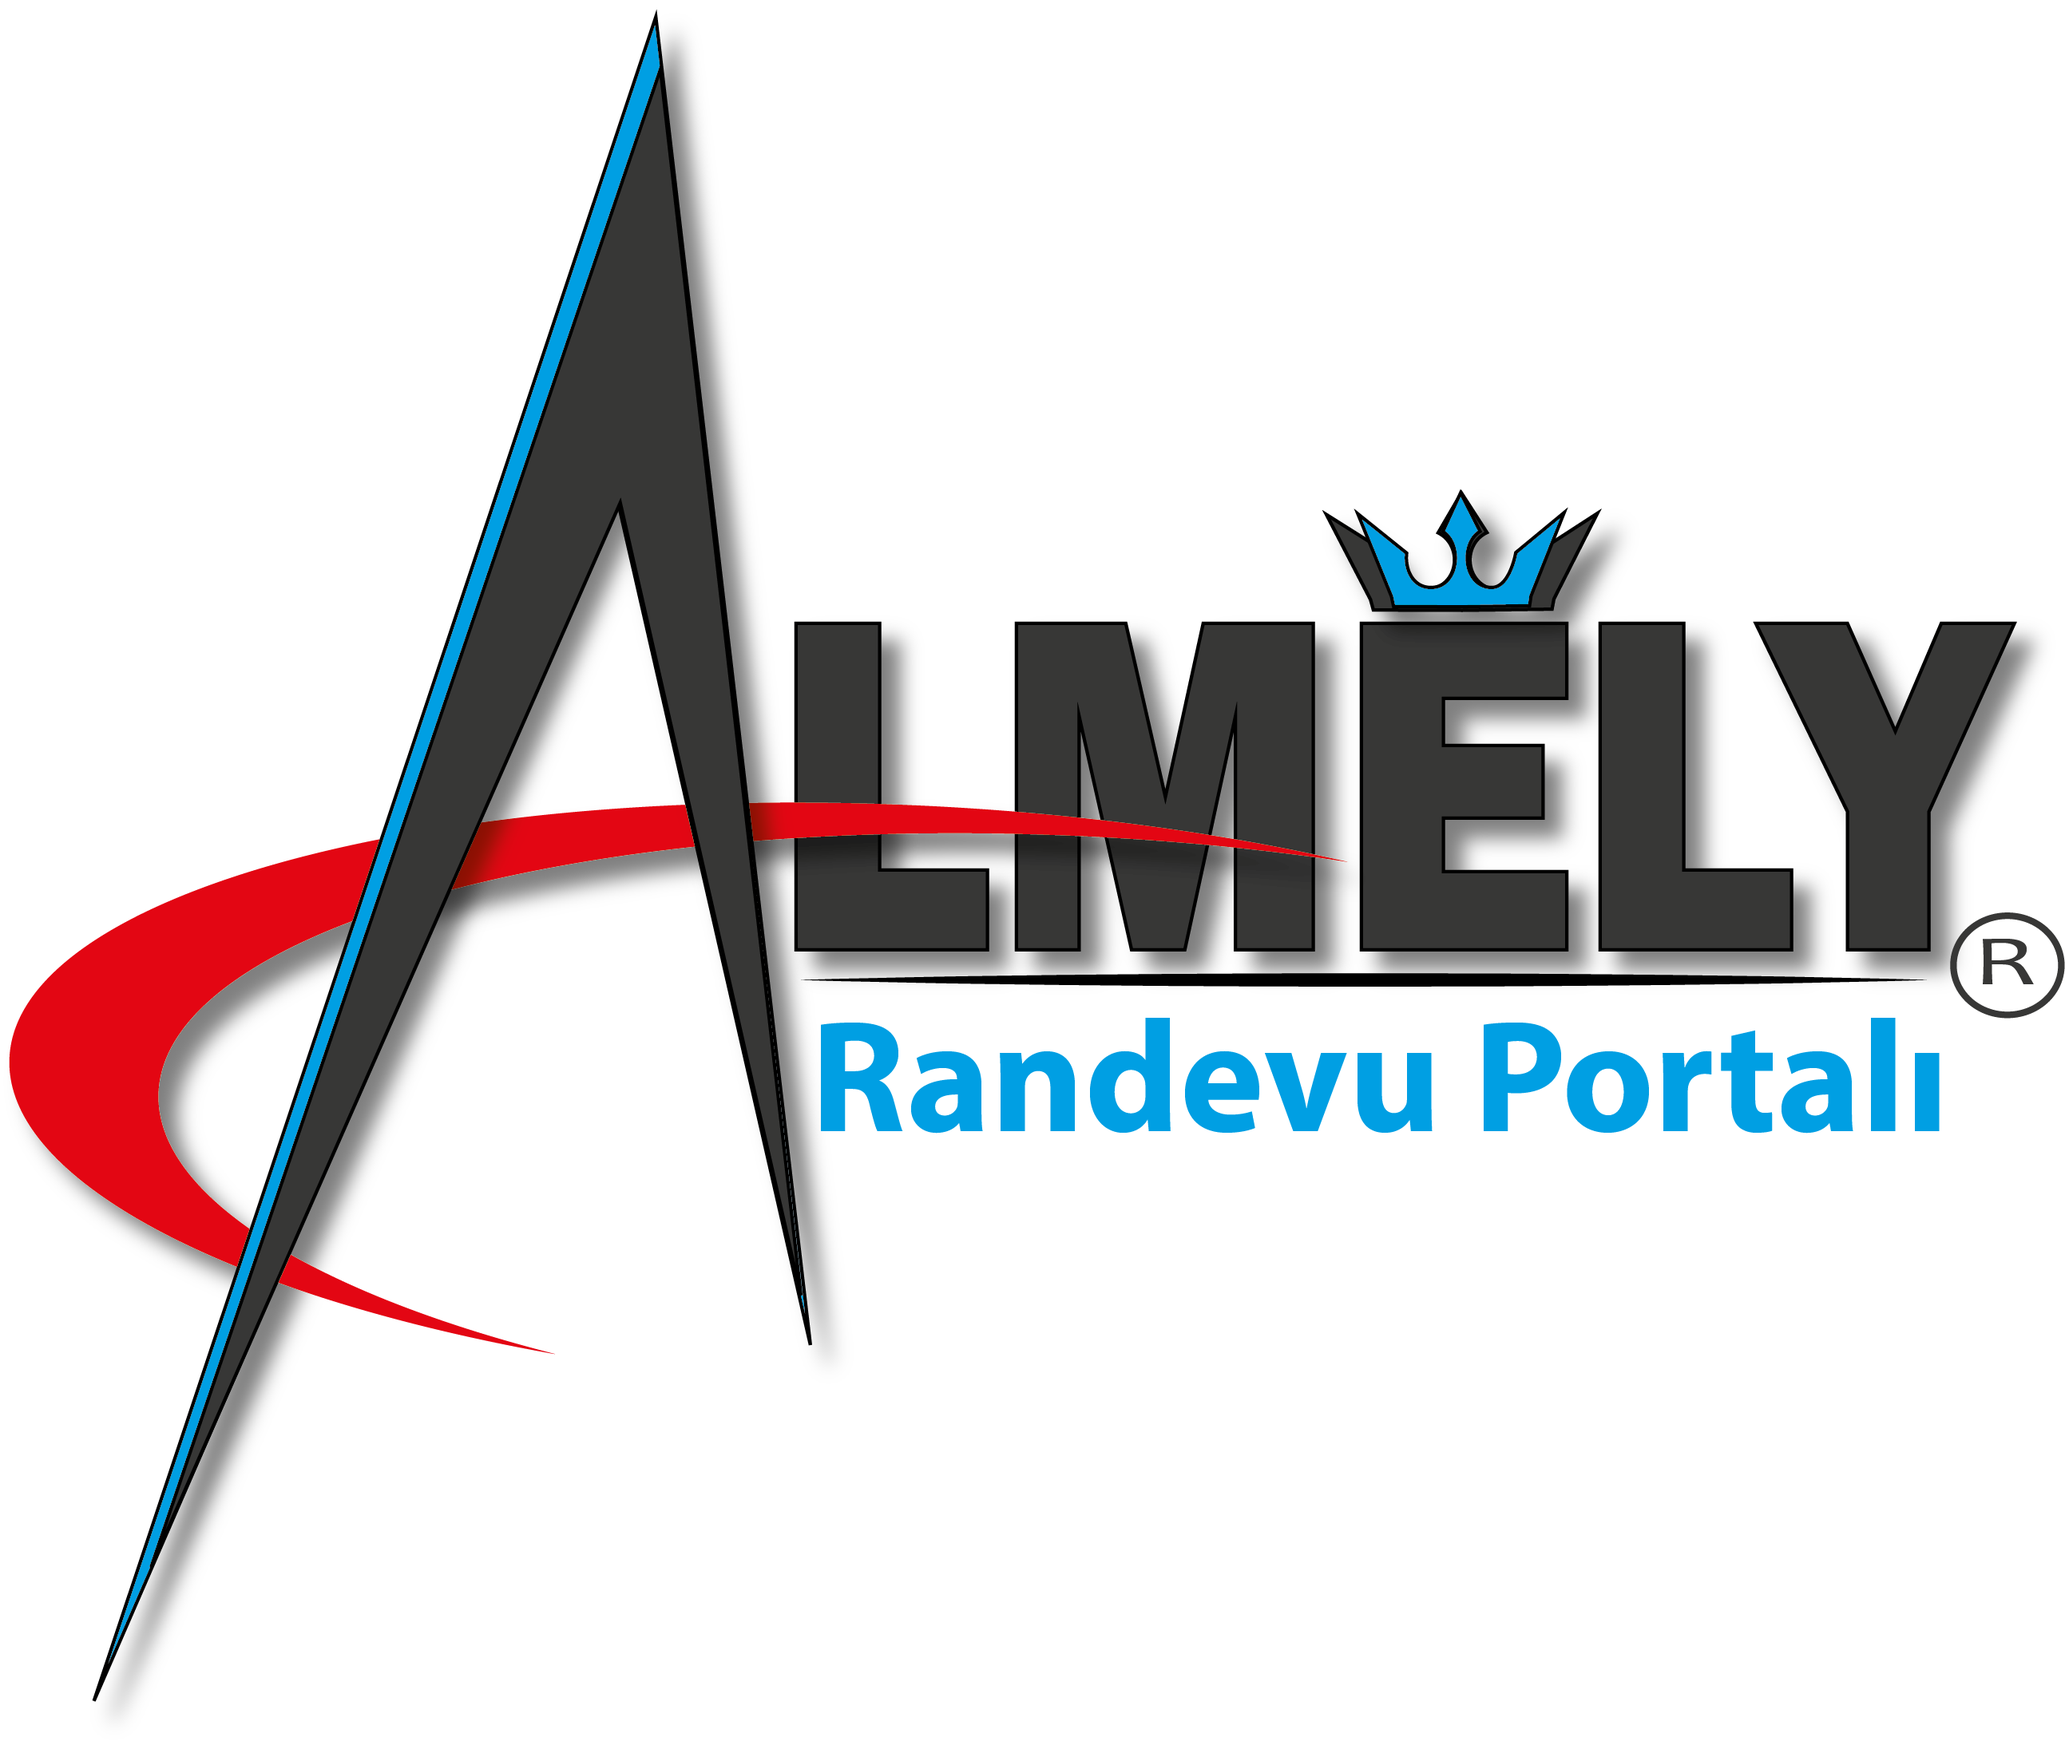
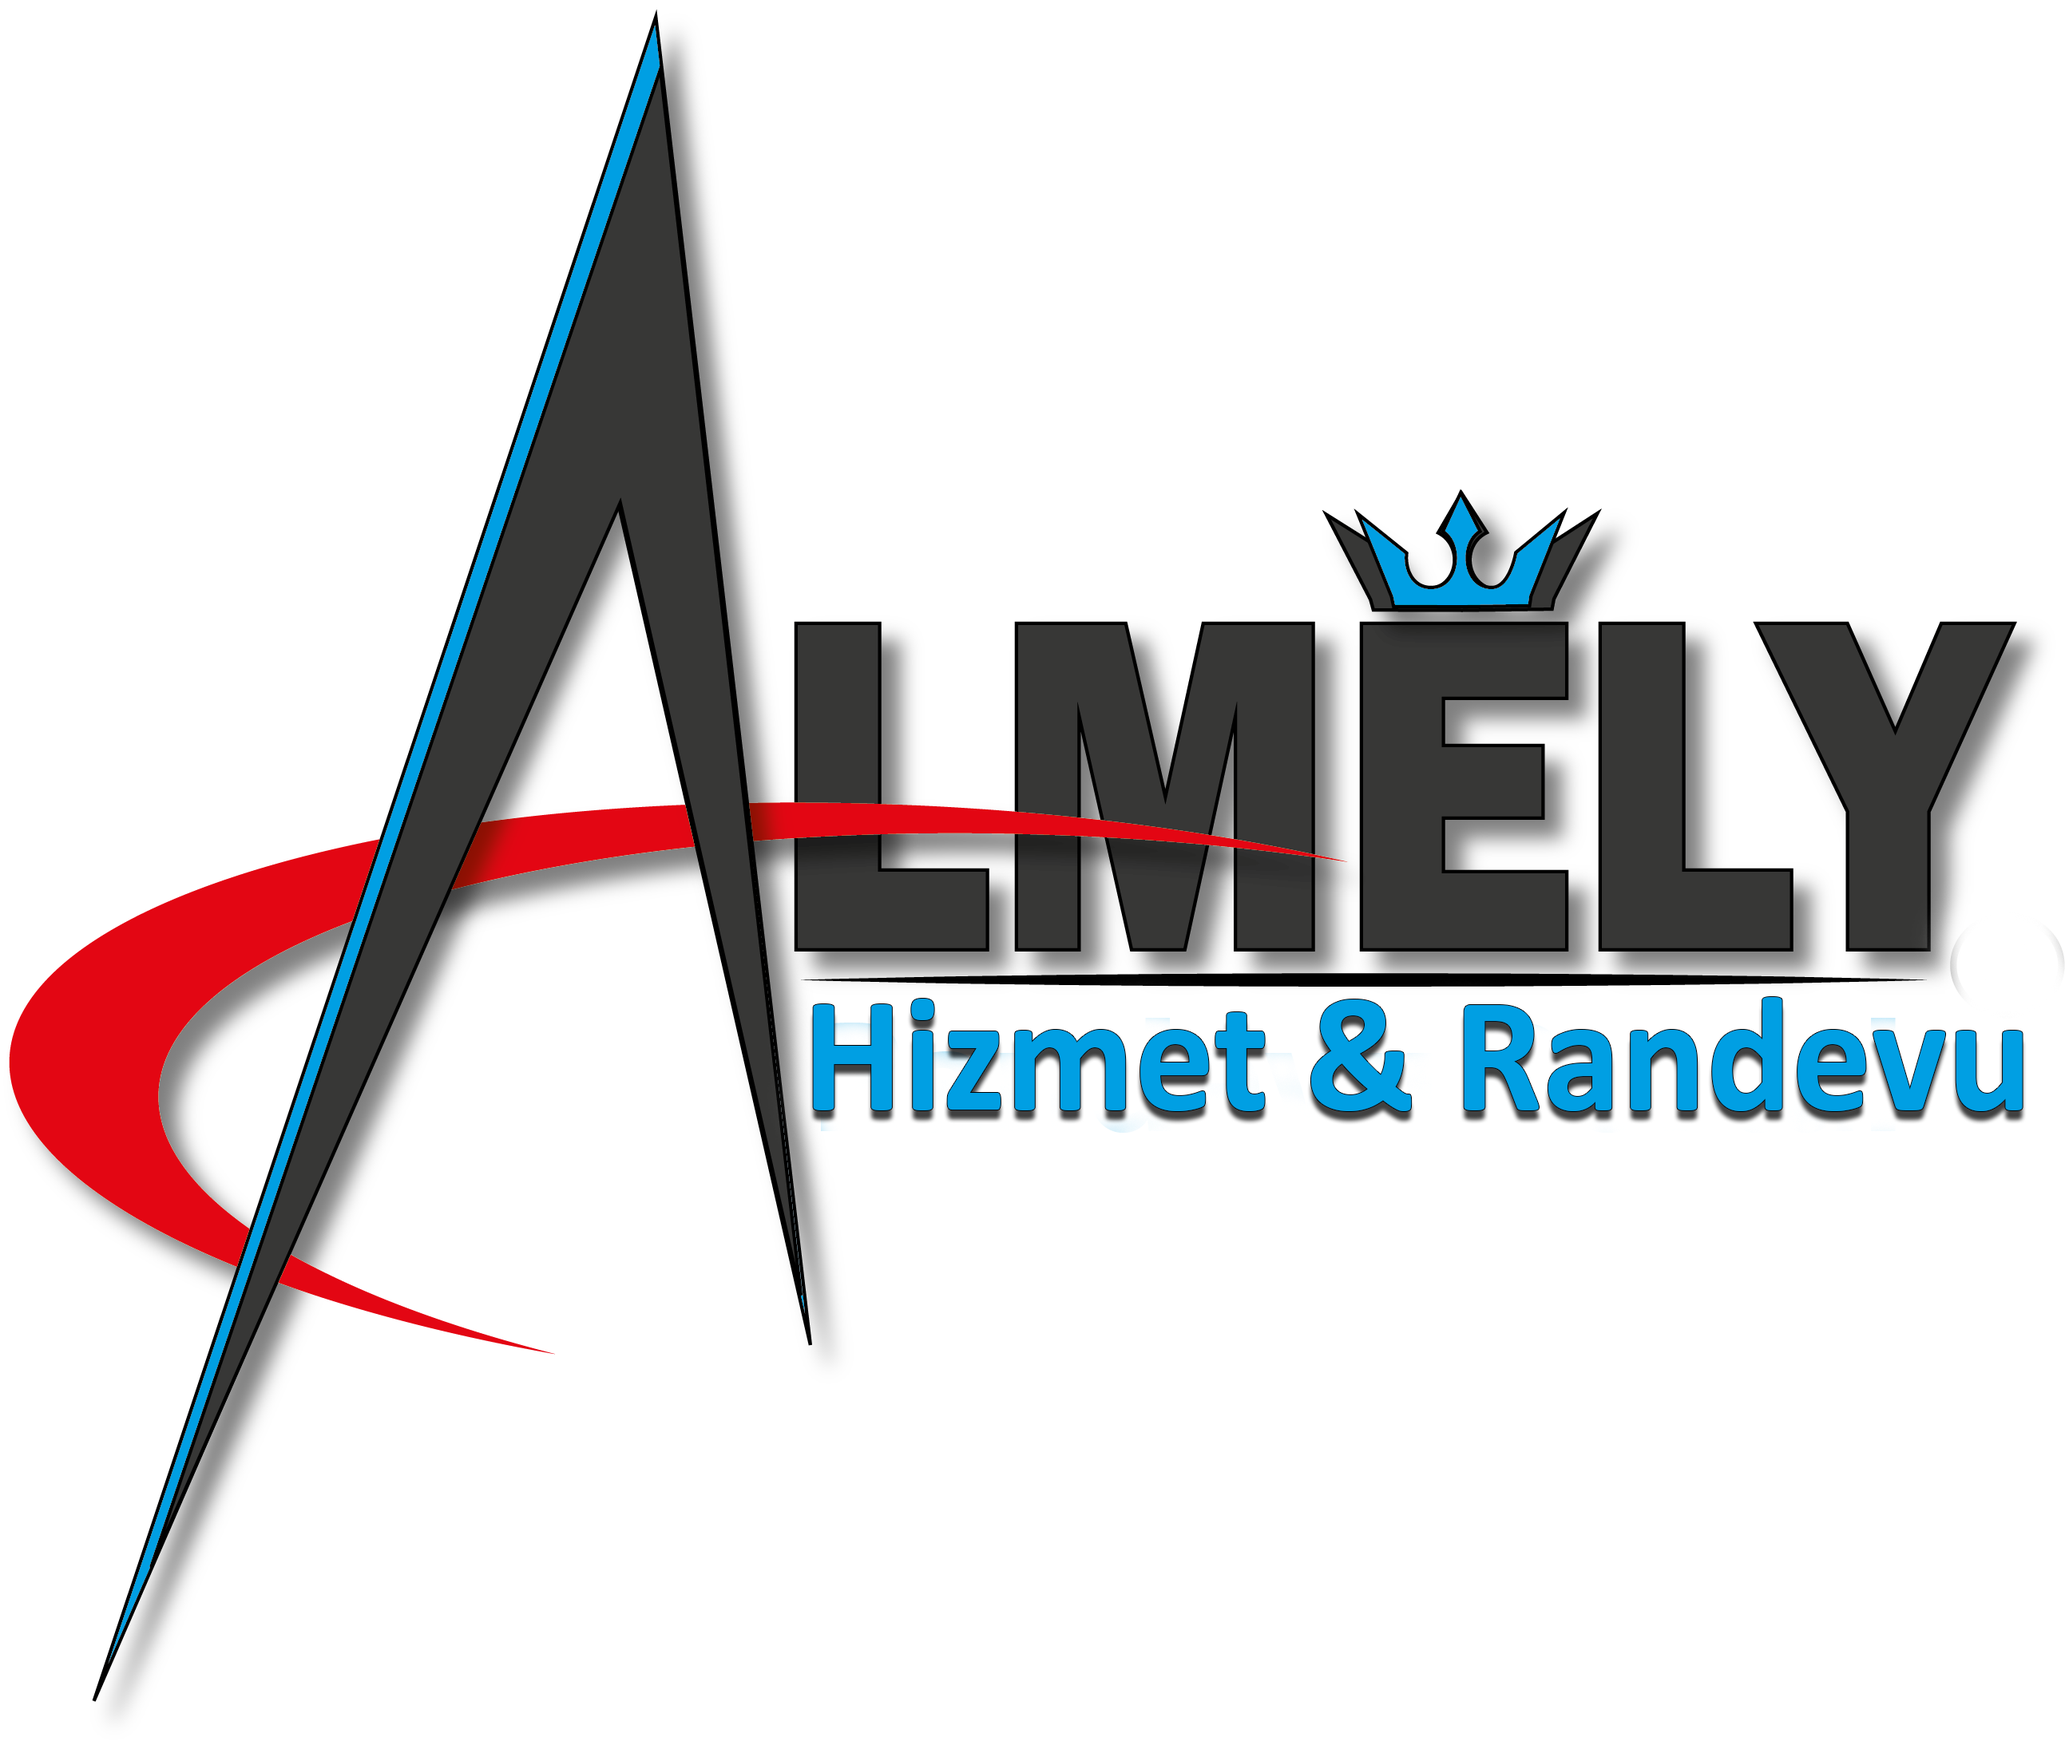
yeni alanlar eklendi.

Changed region(s): [[0.3712, 0.4966, 1.0, 0.6518]]

diff --git a/web/index.html b/web/index.html
@@ -5,16 +5,15 @@
 
   <meta charset="UTF-8">
   <meta content="IE=Edge" http-equiv="X-UA-Compatible">
-  <meta name="description" content="AlmEly Randevu Portalı - Trabzon">
+  <meta name="description" content="AlmEly Hizmet &amp; Randevu - Trabzon">
 
   <meta name="mobile-web-app-capable" content="yes">
   <meta name="apple-mobile-web-app-status-bar-style" content="black">
-  <meta name="apple-mobile-web-app-title" content="AlmEly Randevu Portalı">
+  <meta name="apple-mobile-web-app-title" content="AlmEly Hizmet &amp; Randevu">
   <link rel="apple-touch-icon" href="icons/Icon-192.png">
+  <link rel="icon" type="image/png" href="favicon.png?v=4"/>
 
-  <link rel="icon" type="image/png" href="favicon.png"/>
-
-  <title>AlmEly Randevu Portalı</title>
+  <title>AlmEly Hizmet &amp; Randevu</title>
   <link rel="manifest" href="manifest.json">
 
   <script src="https://maps.googleapis.com/maps/api/js?key=AIzaSyC55S5CY0E_WxTmwq-TvpF2Tp_yrBdrQb8&libraries=places&language=tr"></script>

diff --git a/lib/ekranlar/rehber_ekrani.dart b/lib/ekranlar/rehber_ekrani.dart
@@ -81,7 +81,7 @@ class RehberEkrani extends StatelessWidget {
               Icon(Icons.help_center_rounded, color: Colors.blue.shade800, size: 28),
               const SizedBox(width: 12),
               Text(
-                mod == 'esnaf' ? "İşletme Yönetim Rehberi" : "AlmEly Kullanım Rehberi",
+                mod == 'esnaf' ? "İşletme Yönetim Rehberi" : "AlmEly Hizmet & Randevu Rehberi",
                 style: TextStyle(fontSize: 18, fontWeight: FontWeight.bold, color: Colors.blue.shade900),
               ),
             ],

diff --git a/lib/main.dart b/lib/main.dart
@@ -53,7 +53,7 @@ class AlmElyApp extends StatelessWidget {
     return MaterialApp(
       navigatorKey: navigatorKey,
       debugShowCheckedModeBanner: false,
-      title: 'AlmEly Randevu Portalı',
+      title: 'AlmEly Hizmet & Randevu',
       theme: ThemeData(
         colorScheme: ColorScheme.fromSeed(seedColor: Colors.blue),
         useMaterial3: true,

diff --git a/lib/ekranlar/giris.dart b/lib/ekranlar/giris.dart
@@ -276,7 +276,7 @@ class _GirisSecimSayfasiState extends State<GirisSecimSayfasi> {
             
             const SizedBox(height: 50),
             Text(
-              "© 2026 AlmEly Randevu Portalı",
+              "© 2026 AlmEly Hizmet & Randevu",
               style: TextStyle(color: Colors.grey.shade400, fontSize: 11),
             ),
             

diff --git a/lib/ekranlar/ana_ekran.dart b/lib/ekranlar/ana_ekran.dart
@@ -428,7 +428,7 @@ class _AnaEkranState extends State<AnaEkran> {
       },
       child: Scaffold(
           appBar: AppBar(
-          title: const Text("AlmEly - Trabzon"),
+          title: const Text("AlmEly Hizmet & Randevu"),
           centerTitle: true,
           leading: widget.kullaniciTel != null
             ? StreamBuilder<EsnafModeli?>(
